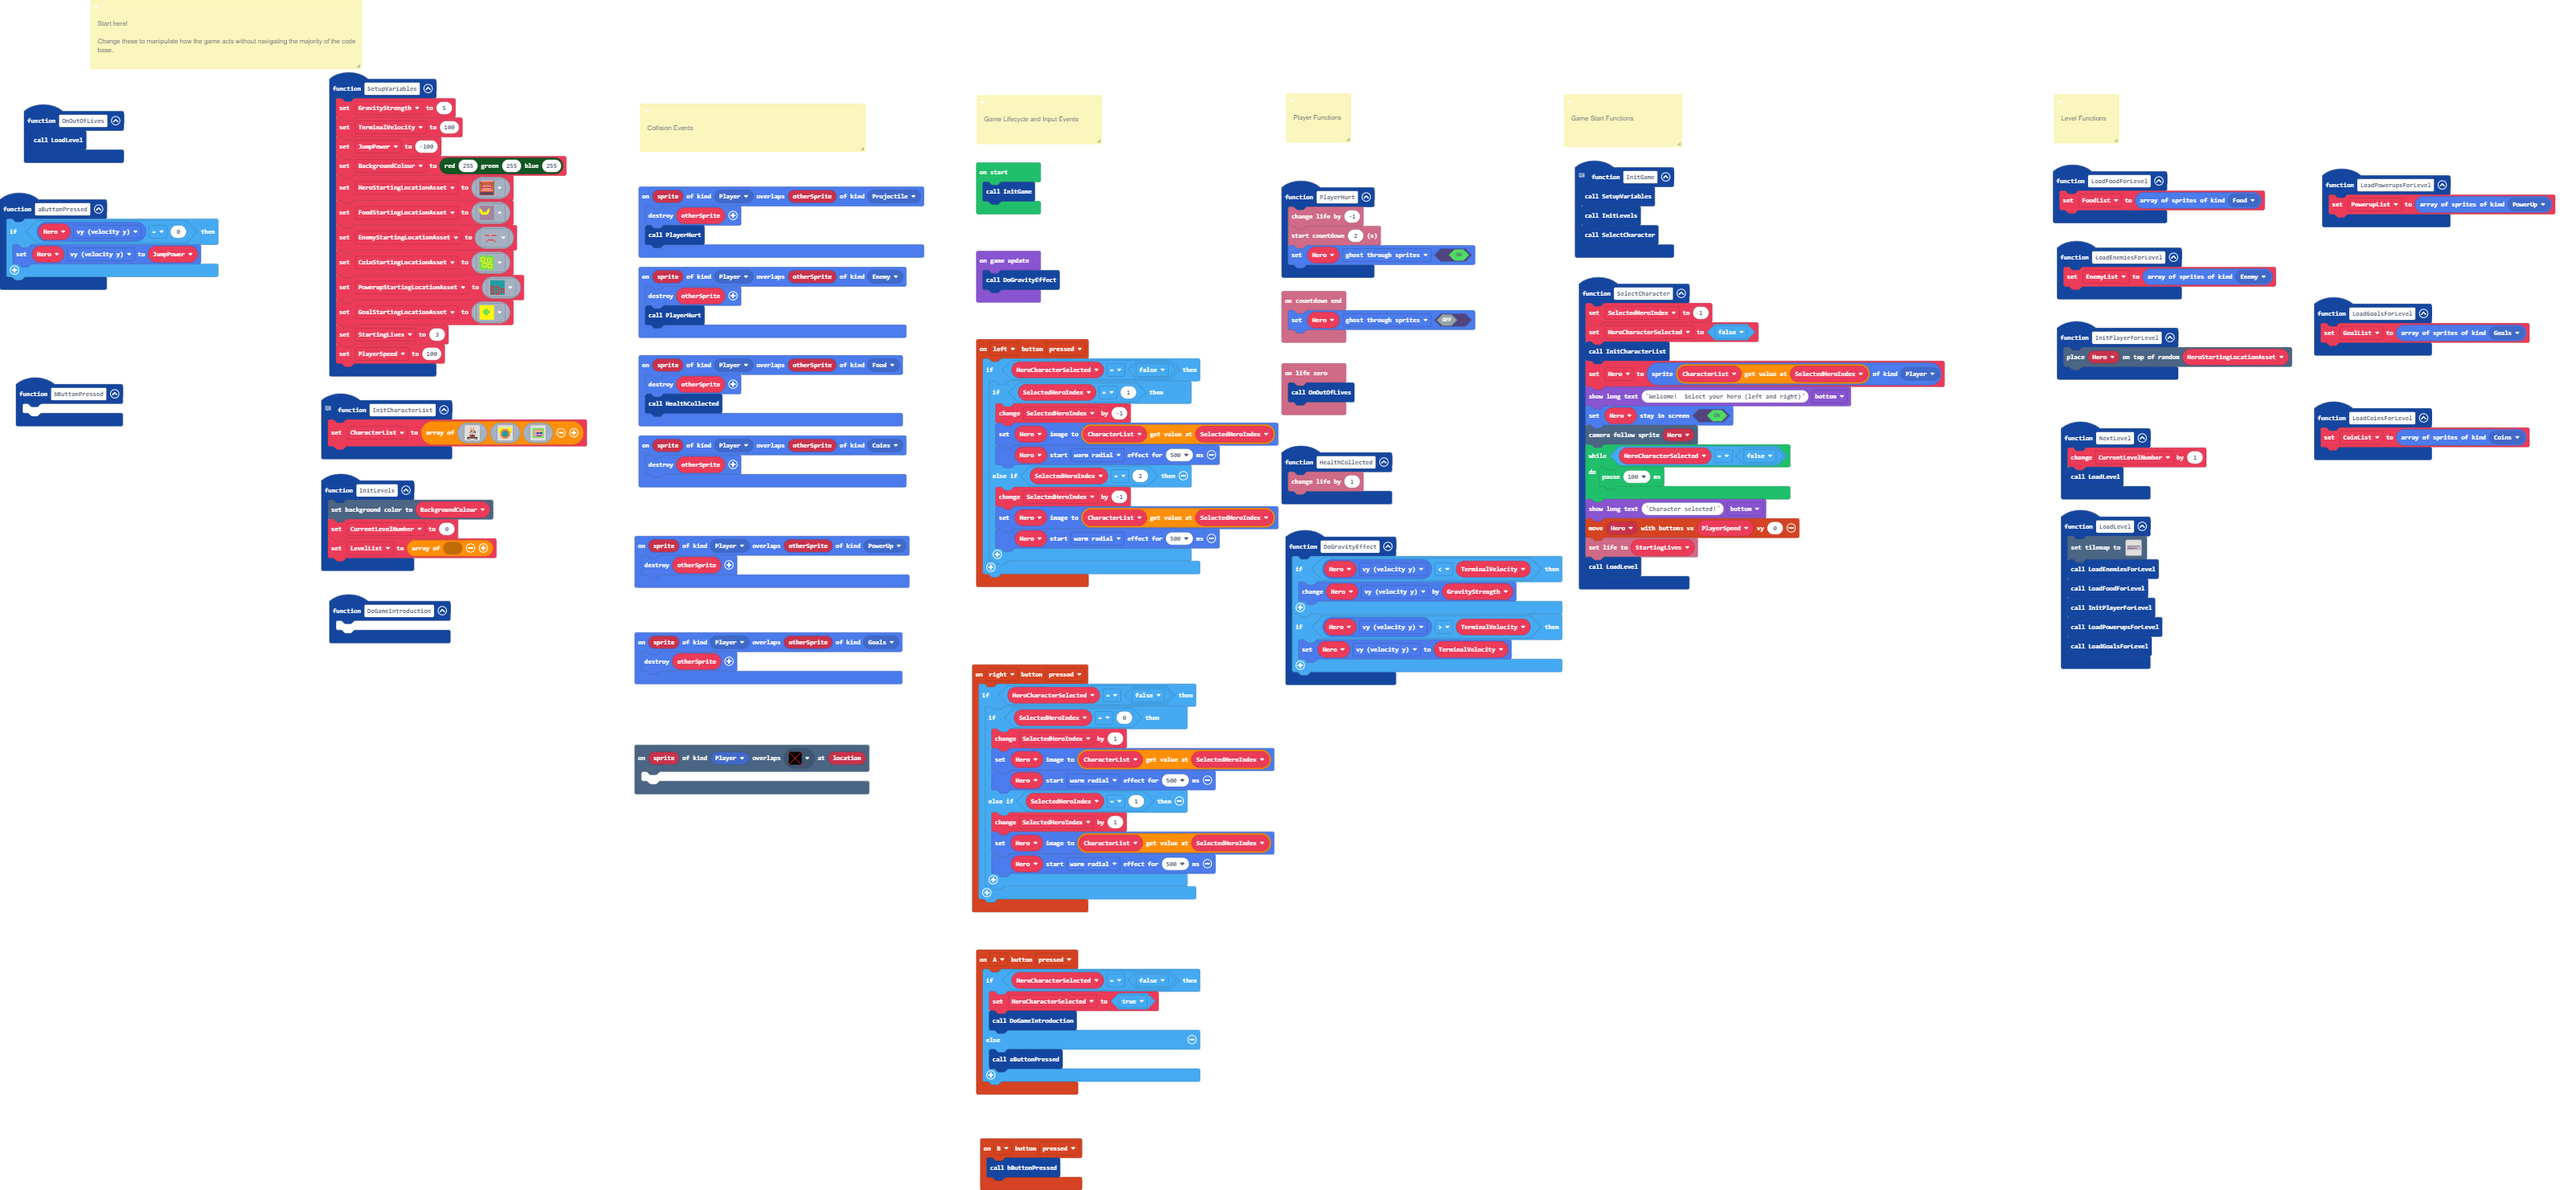
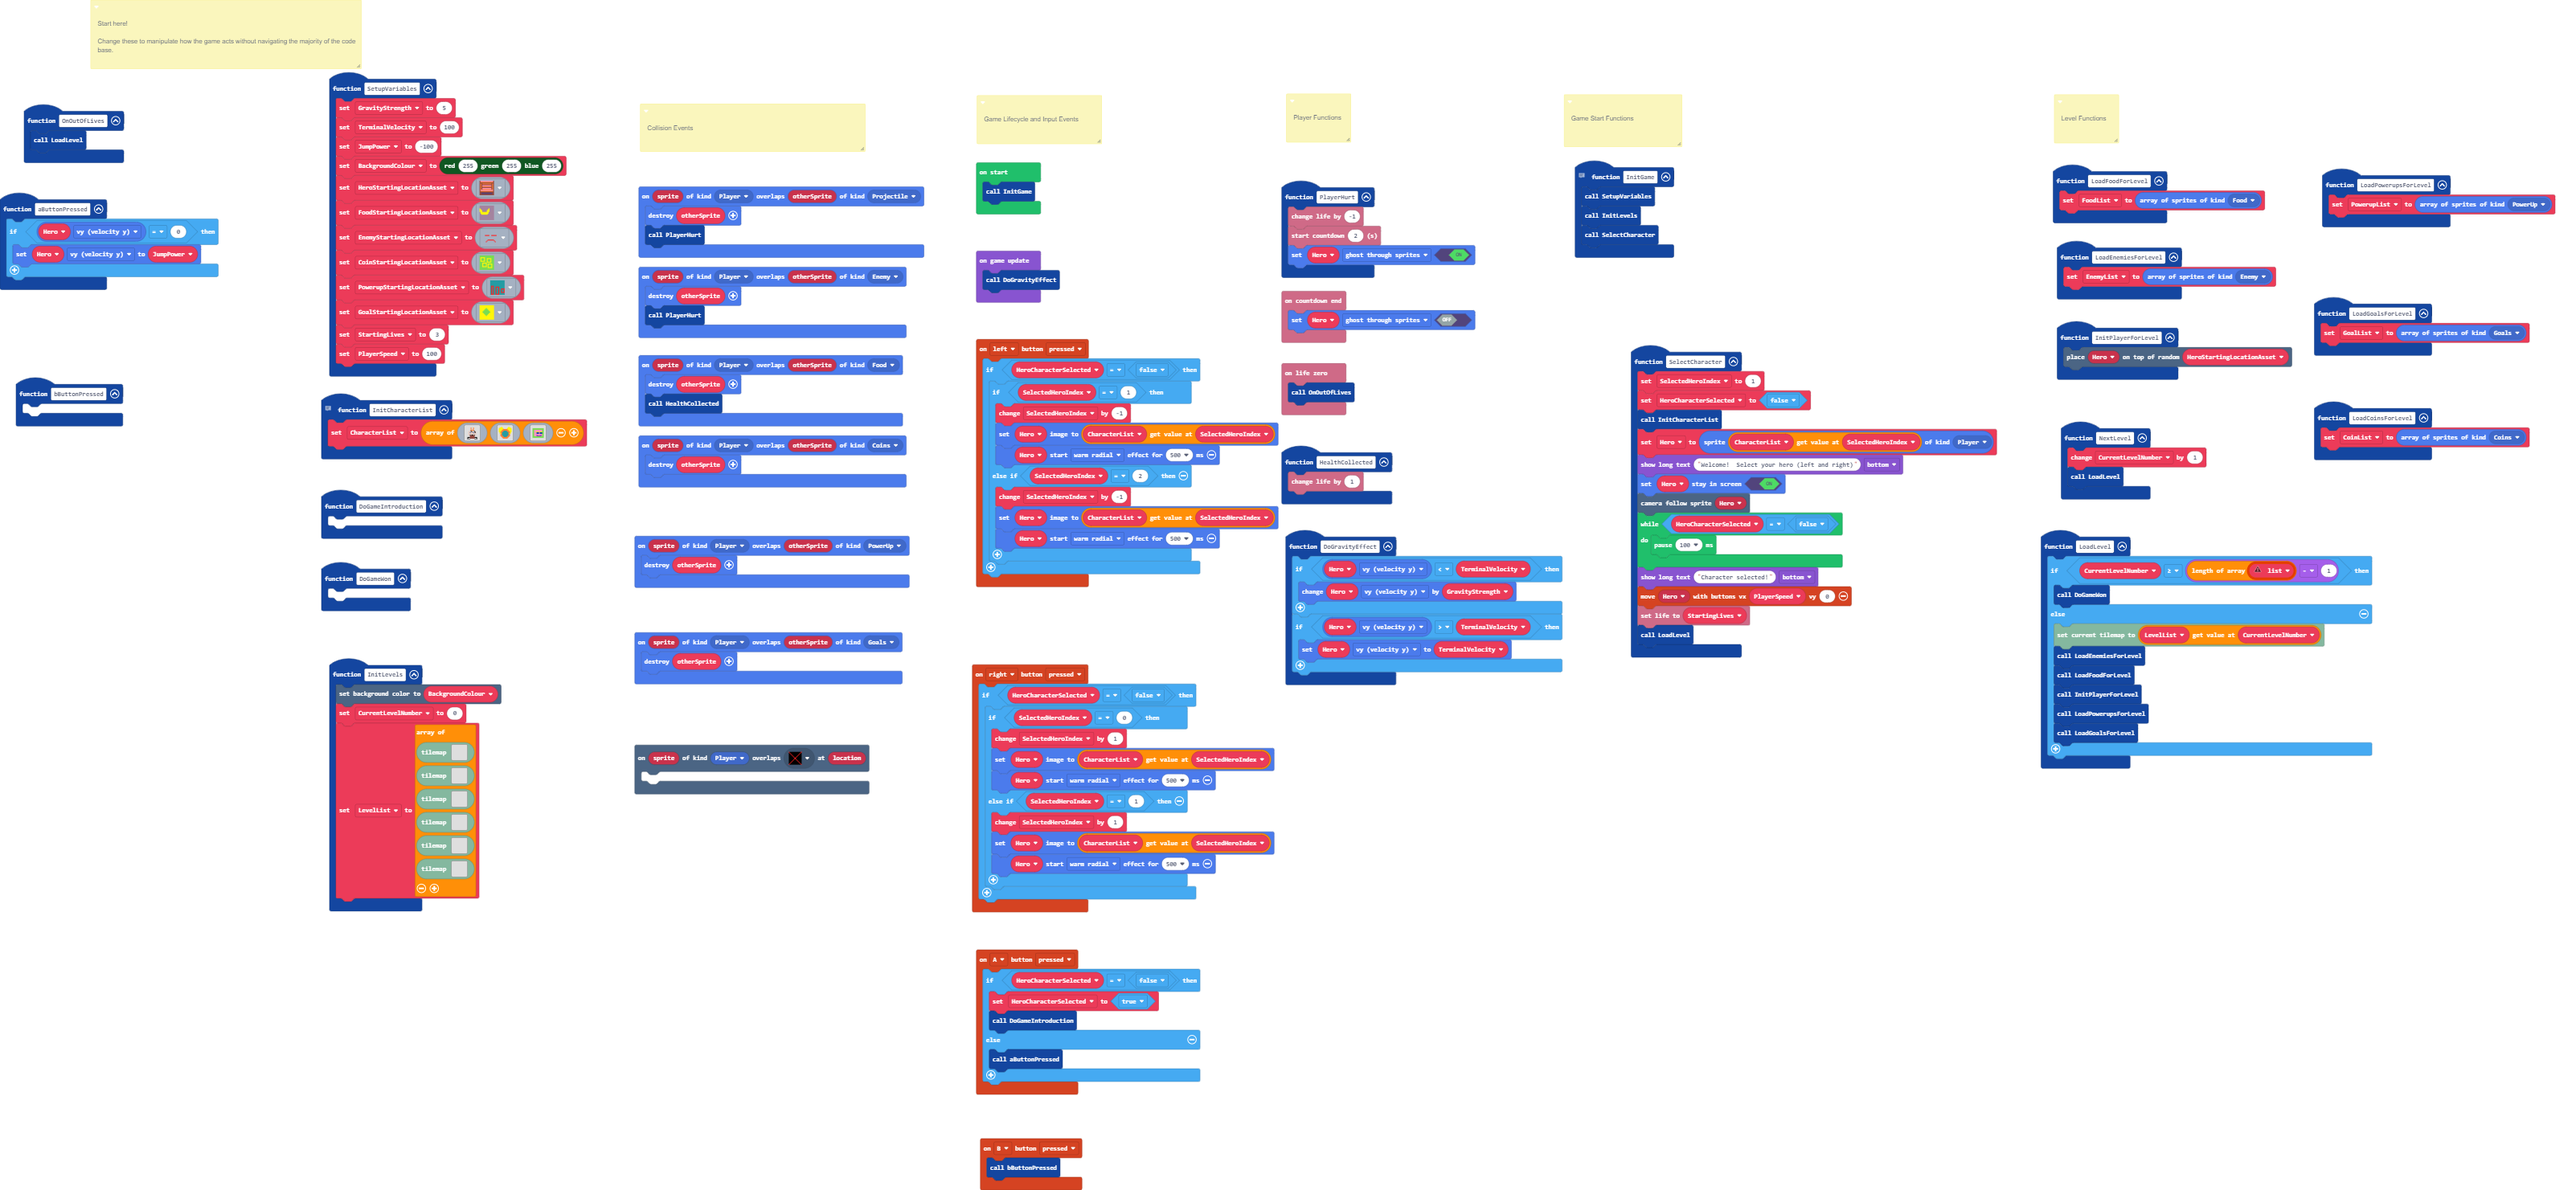
Allowed for multiple levels, and game won.

Changed region(s): [[0.5928, 0.2174, 0.78, 0.5591], [0.78, 0.4348, 0.936, 0.6523], [0.1248, 0.4038, 0.2184, 0.7765]]

diff --git a/tilemap.g.ts b/tilemap.g.ts
@@ -111,6 +111,177 @@ namespace myTiles {
 2222222222222222222222222222222222222222222222222222222222222222222222222222222222222222222222222222
 2222222222222222222222222222222222222222222222222222222222222222222222222222222222222222222222222222
 `, [myTiles.transparency16,sprites.dungeon.darkGroundCenter,sprites.dungeon.collectibleInsignia,sprites.builtin.coral1,sprites.dungeon.stairLadder], TileScale.Sixteen);
+            case "level6":
+            case "level6":return tiles.createTilemap(hex`1000100000000000000000000000000000000000000000000000000000000000000000000000000000000000000000000000000000000000000000000000000000000000000000000000000000000000000000000000000000000000000000000000000000000000000000000000000000000000000000000000000000000000000000000000000000000000000000000000000000000000000000000000000000000000000000000000000000000000000000000000000000000000000000000000000000000000000000000000000000000000000000000000000000000000000000000000000000000000000000000000000000000000000000000000000000000000`, img`
+. . . . . . . . . . . . . . . . 
+. . . . . . . . . . . . . . . . 
+. . . . . . . . . . . . . . . . 
+. . . . . . . . . . . . . . . . 
+. . . . . . . . . . . . . . . . 
+. . . . . . . . . . . . . . . . 
+. . . . . . . . . . . . . . . . 
+. . . . . . . . . . . . . . . . 
+. . . . . . . . . . . . . . . . 
+. . . . . . . . . . . . . . . . 
+. . . . . . . . . . . . . . . . 
+. . . . . . . . . . . . . . . . 
+. . . . . . . . . . . . . . . . 
+. . . . . . . . . . . . . . . . 
+. . . . . . . . . . . . . . . . 
+. . . . . . . . . . . . . . . . 
+`, [myTiles.transparency16], TileScale.Sixteen);
+            case "level7":
+            case "level7":return tiles.createTilemap(hex`1000100000000000000000000000000000000000000000000000000000000000000000000000000000000000000000000000000000000000000000000000000000000000000000000000000000000000000000000000000000000000000000000000000000000000000000000000000000000000000000000000000000000000000000000000000000000000000000000000000000000000000000000000000000000000000000000000000000000000000000000000000000000000000000000000000000000000000000000000000000000000000000000000000000000000000000000000000000000000000000000000000000000000000000000000000000000000`, img`
+. . . . . . . . . . . . . . . . 
+. . . . . . . . . . . . . . . . 
+. . . . . . . . . . . . . . . . 
+. . . . . . . . . . . . . . . . 
+. . . . . . . . . . . . . . . . 
+. . . . . . . . . . . . . . . . 
+. . . . . . . . . . . . . . . . 
+. . . . . . . . . . . . . . . . 
+. . . . . . . . . . . . . . . . 
+. . . . . . . . . . . . . . . . 
+. . . . . . . . . . . . . . . . 
+. . . . . . . . . . . . . . . . 
+. . . . . . . . . . . . . . . . 
+. . . . . . . . . . . . . . . . 
+. . . . . . . . . . . . . . . . 
+. . . . . . . . . . . . . . . . 
+`, [myTiles.transparency16], TileScale.Sixteen);
+            case "level8":
+            case "level8":return tiles.createTilemap(hex`1000100000000000000000000000000000000000000000000000000000000000000000000000000000000000000000000000000000000000000000000000000000000000000000000000000000000000000000000000000000000000000000000000000000000000000000000000000000000000000000000000000000000000000000000000000000000000000000000000000000000000000000000000000000000000000000000000000000000000000000000000000000000000000000000000000000000000000000000000000000000000000000000000000000000000000000000000000000000000000000000000000000000000000000000000000000000000`, img`
+. . . . . . . . . . . . . . . . 
+. . . . . . . . . . . . . . . . 
+. . . . . . . . . . . . . . . . 
+. . . . . . . . . . . . . . . . 
+. . . . . . . . . . . . . . . . 
+. . . . . . . . . . . . . . . . 
+. . . . . . . . . . . . . . . . 
+. . . . . . . . . . . . . . . . 
+. . . . . . . . . . . . . . . . 
+. . . . . . . . . . . . . . . . 
+. . . . . . . . . . . . . . . . 
+. . . . . . . . . . . . . . . . 
+. . . . . . . . . . . . . . . . 
+. . . . . . . . . . . . . . . . 
+. . . . . . . . . . . . . . . . 
+. . . . . . . . . . . . . . . . 
+`, [myTiles.transparency16], TileScale.Sixteen);
+            case "level9":
+            case "level9":return tiles.createTilemap(hex`1000100000000000000000000000000000000000000000000000000000000000000000000000000000000000000000000000000000000000000000000000000000000000000000000000000000000000000000000000000000000000000000000000000000000000000000000000000000000000000000000000000000000000000000000000000000000000000000000000000000000000000000000000000000000000000000000000000000000000000000000000000000000000000000000000000000000000000000000000000000000000000000000000000000000000000000000000000000000000000000000000000000000000000000000000000000000000`, img`
+. . . . . . . . . . . . . . . . 
+. . . . . . . . . . . . . . . . 
+. . . . . . . . . . . . . . . . 
+. . . . . . . . . . . . . . . . 
+. . . . . . . . . . . . . . . . 
+. . . . . . . . . . . . . . . . 
+. . . . . . . . . . . . . . . . 
+. . . . . . . . . . . . . . . . 
+. . . . . . . . . . . . . . . . 
+. . . . . . . . . . . . . . . . 
+. . . . . . . . . . . . . . . . 
+. . . . . . . . . . . . . . . . 
+. . . . . . . . . . . . . . . . 
+. . . . . . . . . . . . . . . . 
+. . . . . . . . . . . . . . . . 
+. . . . . . . . . . . . . . . . 
+`, [myTiles.transparency16], TileScale.Sixteen);
+            case "level10":
+            case "level10":return tiles.createTilemap(hex`1000100000000000000000000000000000000000000000000000000000000000000000000000000000000000000000000000000000000000000000000000000000000000000000000000000000000000000000000000000000000000000000000000000000000000000000000000000000000000000000000000000000000000000000000000000000000000000000000000000000000000000000000000000000000000000000000000000000000000000000000000000000000000000000000000000000000000000000000000000000000000000000000000000000000000000000000000000000000000000000000000000000000000000000000000000000000000`, img`
+. . . . . . . . . . . . . . . . 
+. . . . . . . . . . . . . . . . 
+. . . . . . . . . . . . . . . . 
+. . . . . . . . . . . . . . . . 
+. . . . . . . . . . . . . . . . 
+. . . . . . . . . . . . . . . . 
+. . . . . . . . . . . . . . . . 
+. . . . . . . . . . . . . . . . 
+. . . . . . . . . . . . . . . . 
+. . . . . . . . . . . . . . . . 
+. . . . . . . . . . . . . . . . 
+. . . . . . . . . . . . . . . . 
+. . . . . . . . . . . . . . . . 
+. . . . . . . . . . . . . . . . 
+. . . . . . . . . . . . . . . . 
+. . . . . . . . . . . . . . . . 
+`, [myTiles.transparency16], TileScale.Sixteen);
+            case "level11":
+            case "level11":return tiles.createTilemap(hex`1000100000000000000000000000000000000000000000000000000000000000000000000000000000000000000000000000000000000000000000000000000000000000000000000000000000000000000000000000000000000000000000000000000000000000000000000000000000000000000000000000000000000000000000000000000000000000000000000000000000000000000000000000000000000000000000000000000000000000000000000000000000000000000000000000000000000000000000000000000000000000000000000000000000000000000000000000000000000000000000000000000000000000000000000000000000000000`, img`
+. . . . . . . . . . . . . . . . 
+. . . . . . . . . . . . . . . . 
+. . . . . . . . . . . . . . . . 
+. . . . . . . . . . . . . . . . 
+. . . . . . . . . . . . . . . . 
+. . . . . . . . . . . . . . . . 
+. . . . . . . . . . . . . . . . 
+. . . . . . . . . . . . . . . . 
+. . . . . . . . . . . . . . . . 
+. . . . . . . . . . . . . . . . 
+. . . . . . . . . . . . . . . . 
+. . . . . . . . . . . . . . . . 
+. . . . . . . . . . . . . . . . 
+. . . . . . . . . . . . . . . . 
+. . . . . . . . . . . . . . . . 
+. . . . . . . . . . . . . . . . 
+`, [myTiles.transparency16], TileScale.Sixteen);
+            case "level12":
+            case "level12":return tiles.createTilemap(hex`1000100000000000000000000000000000000000000000000000000000000000000000000000000000000000000000000000000000000000000000000000000000000000000000000000000000000000000000000000000000000000000000000000000000000000000000000000000000000000000000000000000000000000000000000000000000000000000000000000000000000000000000000000000000000000000000000000000000000000000000000000000000000000000000000000000000000000000000000000000000000000000000000000000000000000000000000000000000000000000000000000000000000000000000000000000000000000`, img`
+. . . . . . . . . . . . . . . . 
+. . . . . . . . . . . . . . . . 
+. . . . . . . . . . . . . . . . 
+. . . . . . . . . . . . . . . . 
+. . . . . . . . . . . . . . . . 
+. . . . . . . . . . . . . . . . 
+. . . . . . . . . . . . . . . . 
+. . . . . . . . . . . . . . . . 
+. . . . . . . . . . . . . . . . 
+. . . . . . . . . . . . . . . . 
+. . . . . . . . . . . . . . . . 
+. . . . . . . . . . . . . . . . 
+. . . . . . . . . . . . . . . . 
+. . . . . . . . . . . . . . . . 
+. . . . . . . . . . . . . . . . 
+. . . . . . . . . . . . . . . . 
+`, [myTiles.transparency16], TileScale.Sixteen);
+            case "level5":
+            case "level5":return tiles.createTilemap(hex`1000100000000000000000000000000000000000000000000000000000000000000000000000000000000000000000000000000000000000000000000000000000000000000000000000000000000000000000000000000000000000000000000000000000000000000000000000000000000000000000000000000000000000000000000000000000000000000000000000000000000000000000000000000000000000000000000000000000000000000000000000000000000000000000000000000000000000000000000000000000000000000000000000000000000000000000000000000000000000000000000000000000000000000000000000000000000000`, img`
+. . . . . . . . . . . . . . . . 
+. . . . . . . . . . . . . . . . 
+. . . . . . . . . . . . . . . . 
+. . . . . . . . . . . . . . . . 
+. . . . . . . . . . . . . . . . 
+. . . . . . . . . . . . . . . . 
+. . . . . . . . . . . . . . . . 
+. . . . . . . . . . . . . . . . 
+. . . . . . . . . . . . . . . . 
+. . . . . . . . . . . . . . . . 
+. . . . . . . . . . . . . . . . 
+. . . . . . . . . . . . . . . . 
+. . . . . . . . . . . . . . . . 
+. . . . . . . . . . . . . . . . 
+. . . . . . . . . . . . . . . . 
+. . . . . . . . . . . . . . . . 
+`, [myTiles.transparency16], TileScale.Sixteen);
+            case "level13":
+            case "level13":return tiles.createTilemap(hex`1000100000000000000000000000000000000000000000000000000000000000000000000000000000000000000000000000000000000000000000000000000000000000000000000000000000000000000000000000000000000000000000000000000000000000000000000000000000000000000000000000000000000000000000000000000000000000000000000000000000000000000000000000000000000000000000000000000000000000000000000000000000000000000000000000000000000000000000000000000000000000000000000000000000000000000000000000000000000000000000000000000000000000000000000000000000000000`, img`
+. . . . . . . . . . . . . . . . 
+. . . . . . . . . . . . . . . . 
+. . . . . . . . . . . . . . . . 
+. . . . . . . . . . . . . . . . 
+. . . . . . . . . . . . . . . . 
+. . . . . . . . . . . . . . . . 
+. . . . . . . . . . . . . . . . 
+. . . . . . . . . . . . . . . . 
+. . . . . . . . . . . . . . . . 
+. . . . . . . . . . . . . . . . 
+. . . . . . . . . . . . . . . . 
+. . . . . . . . . . . . . . . . 
+. . . . . . . . . . . . . . . . 
+. . . . . . . . . . . . . . . . 
+. . . . . . . . . . . . . . . . 
+. . . . . . . . . . . . . . . . 
+`, [myTiles.transparency16], TileScale.Sixteen);
         }
         return null;
     })

diff --git a/main.ts b/main.ts
@@ -36,7 +36,7 @@ function PlayerHurt () {
     Hero.setFlag(SpriteFlag.GhostThroughSprites, true)
 }
 function aButtonPressed () {
-    if (Hero.vy == 5) {
+    if (Hero.vy == 0) {
         Hero.vy = JumpPower
     }
 }
@@ -46,7 +46,14 @@ function InitPlayerForLevel () {
 function InitLevels () {
     scene.setBackgroundColor(BackgroundColour)
     CurrentLevelNumber = 0
-    LevelList = []
+    LevelList = [
+    tiles.createMap(tilemap`level5`),
+    tiles.createMap(tilemap`level5`),
+    tiles.createMap(tilemap`level5`),
+    tiles.createMap(tilemap`level5`),
+    tiles.createMap(tilemap`level5`),
+    tiles.createMap(tilemap`level5`)
+    ]
 }
 function LoadGoalsForLevel () {
     GoalList = sprites.allOfKind(SpriteKind.Goals)
@@ -60,12 +67,17 @@ controller.A.onEvent(ControllerButtonEvent.Pressed, function () {
     }
 })
 function LoadLevel () {
-    tiles.setTilemap(tilemap`level3`)
-    LoadEnemiesForLevel()
-    LoadFoodForLevel()
-    InitPlayerForLevel()
-    LoadPowerupsForLevel()
-    LoadGoalsForLevel()
+    let list: number[] = []
+    if (CurrentLevelNumber >= list.length - 1) {
+        DoGameWon()
+    } else {
+        tiles.loadMap(LevelList[CurrentLevelNumber])
+        LoadEnemiesForLevel()
+        LoadFoodForLevel()
+        InitPlayerForLevel()
+        LoadPowerupsForLevel()
+        LoadGoalsForLevel()
+    }
 }
 controller.left.onEvent(ControllerButtonEvent.Pressed, function () {
     if (HeroCharacterSelected == false) {
@@ -135,6 +147,9 @@ function DoGravityEffect () {
     if (Hero.vy > TerminalVelocity) {
         Hero.vy = TerminalVelocity
     }
+}
+function DoGameWon () {
+	
 }
 sprites.onOverlap(SpriteKind.Player, SpriteKind.Food, function (sprite, otherSprite) {
     otherSprite.destroy()
@@ -215,7 +230,7 @@ let PowerupList: Sprite[] = []
 let SelectedHeroIndex = 0
 let HeroCharacterSelected = false
 let GoalList: Sprite[] = []
-let LevelList: number[] = []
+let LevelList: tiles.WorldMap[] = []
 let CurrentLevelNumber = 0
 let BackgroundColour = 0
 let HeroStartingLocationAsset: Image = null
